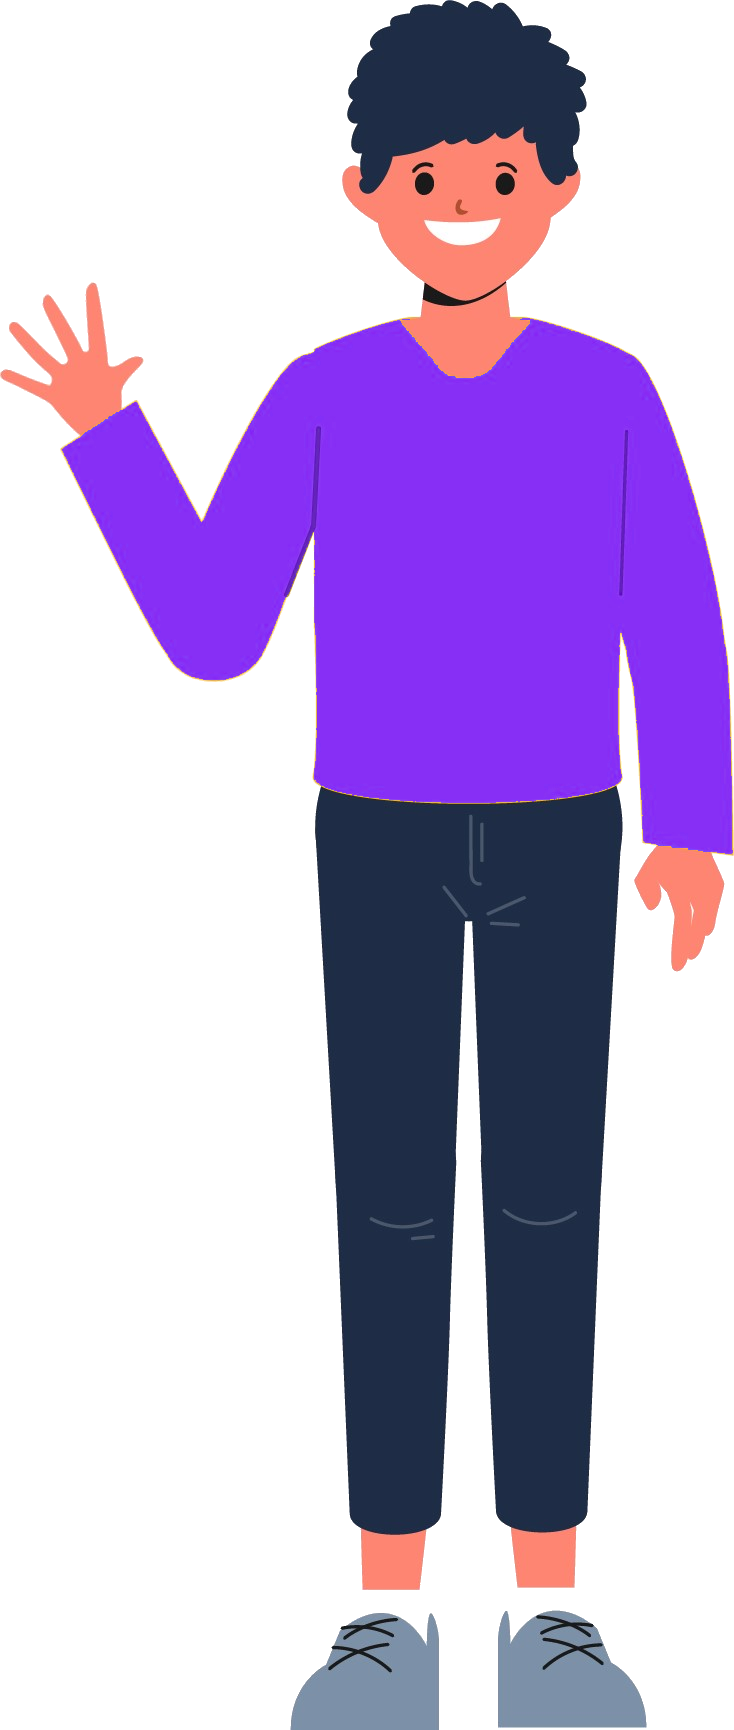
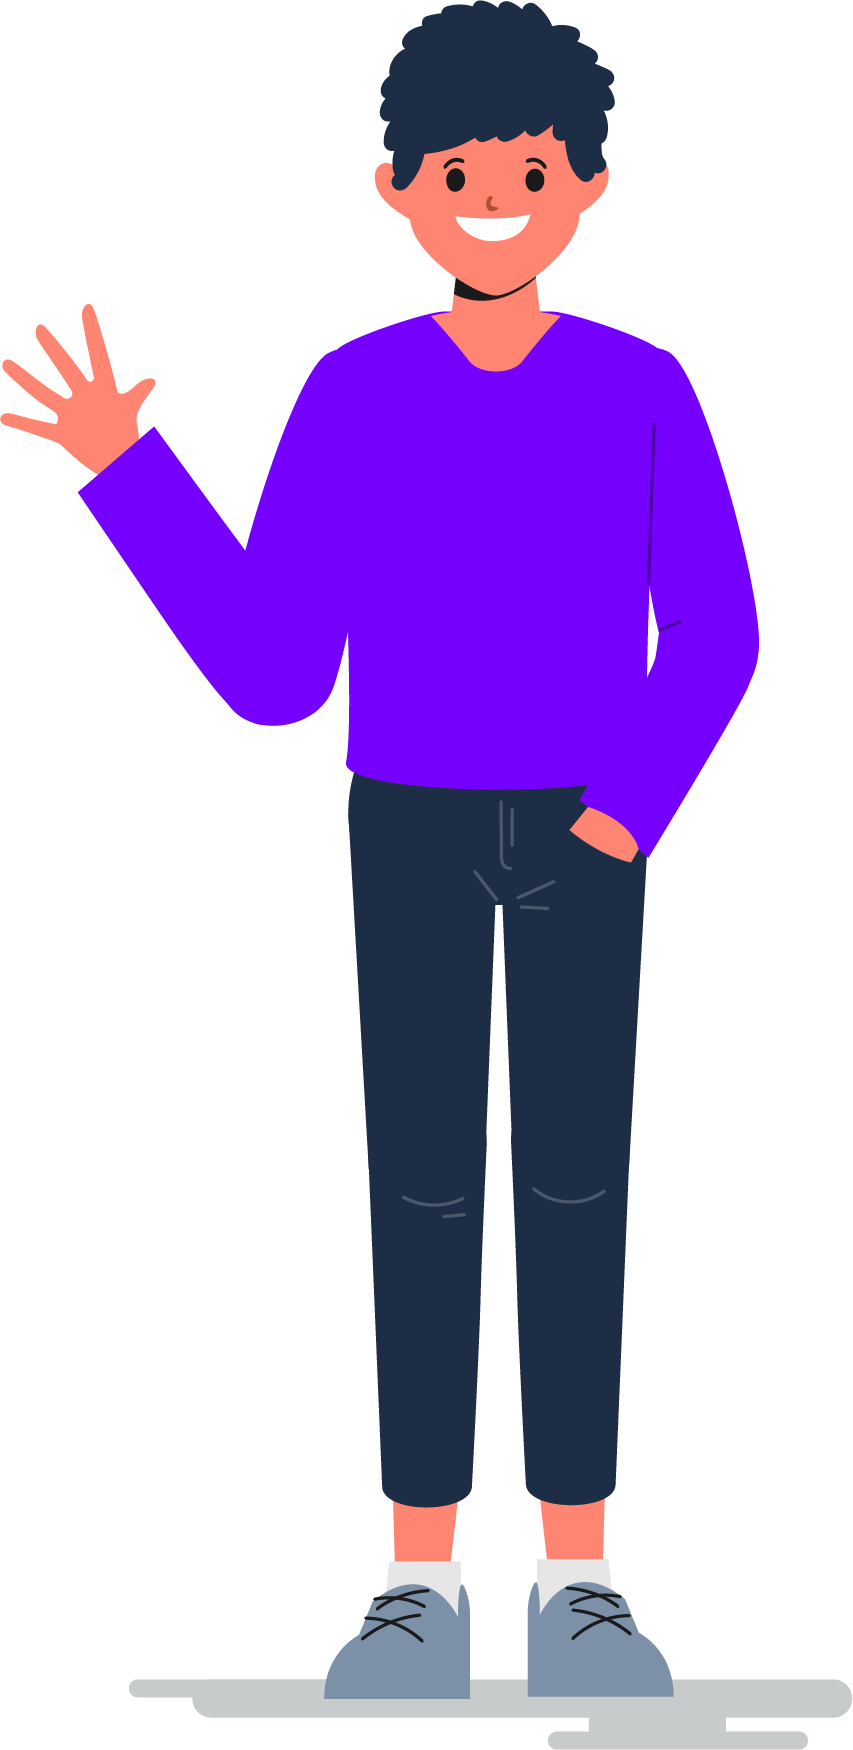
Improved "Hi" image, Added Instagram link to footer

diff --git a/src/app/home/home.tsx b/src/app/home/home.tsx
@@ -35,6 +35,7 @@ class Home extends React.Component<P> {
         <Image
           style={[s.topRight, s.mr24, s.mt4, {width: 84, height: 204}]}
           source={require('../../assets/images/character/hi.png')}
+          resizeMode="contain"
         />
         <View style={[s.col12, {height: 24}]}>
           <Triangle
@@ -63,6 +64,7 @@ class Home extends React.Component<P> {
         <View style={[s.row, s.alignCenter]}>
           <IconButton icon="facebook" />
           <IconButton icon="twitter" />
+          <IconButton icon="instagram" />
           <IconButton icon="linkedin" />
           <IconButton icon="email" />
         </View>
